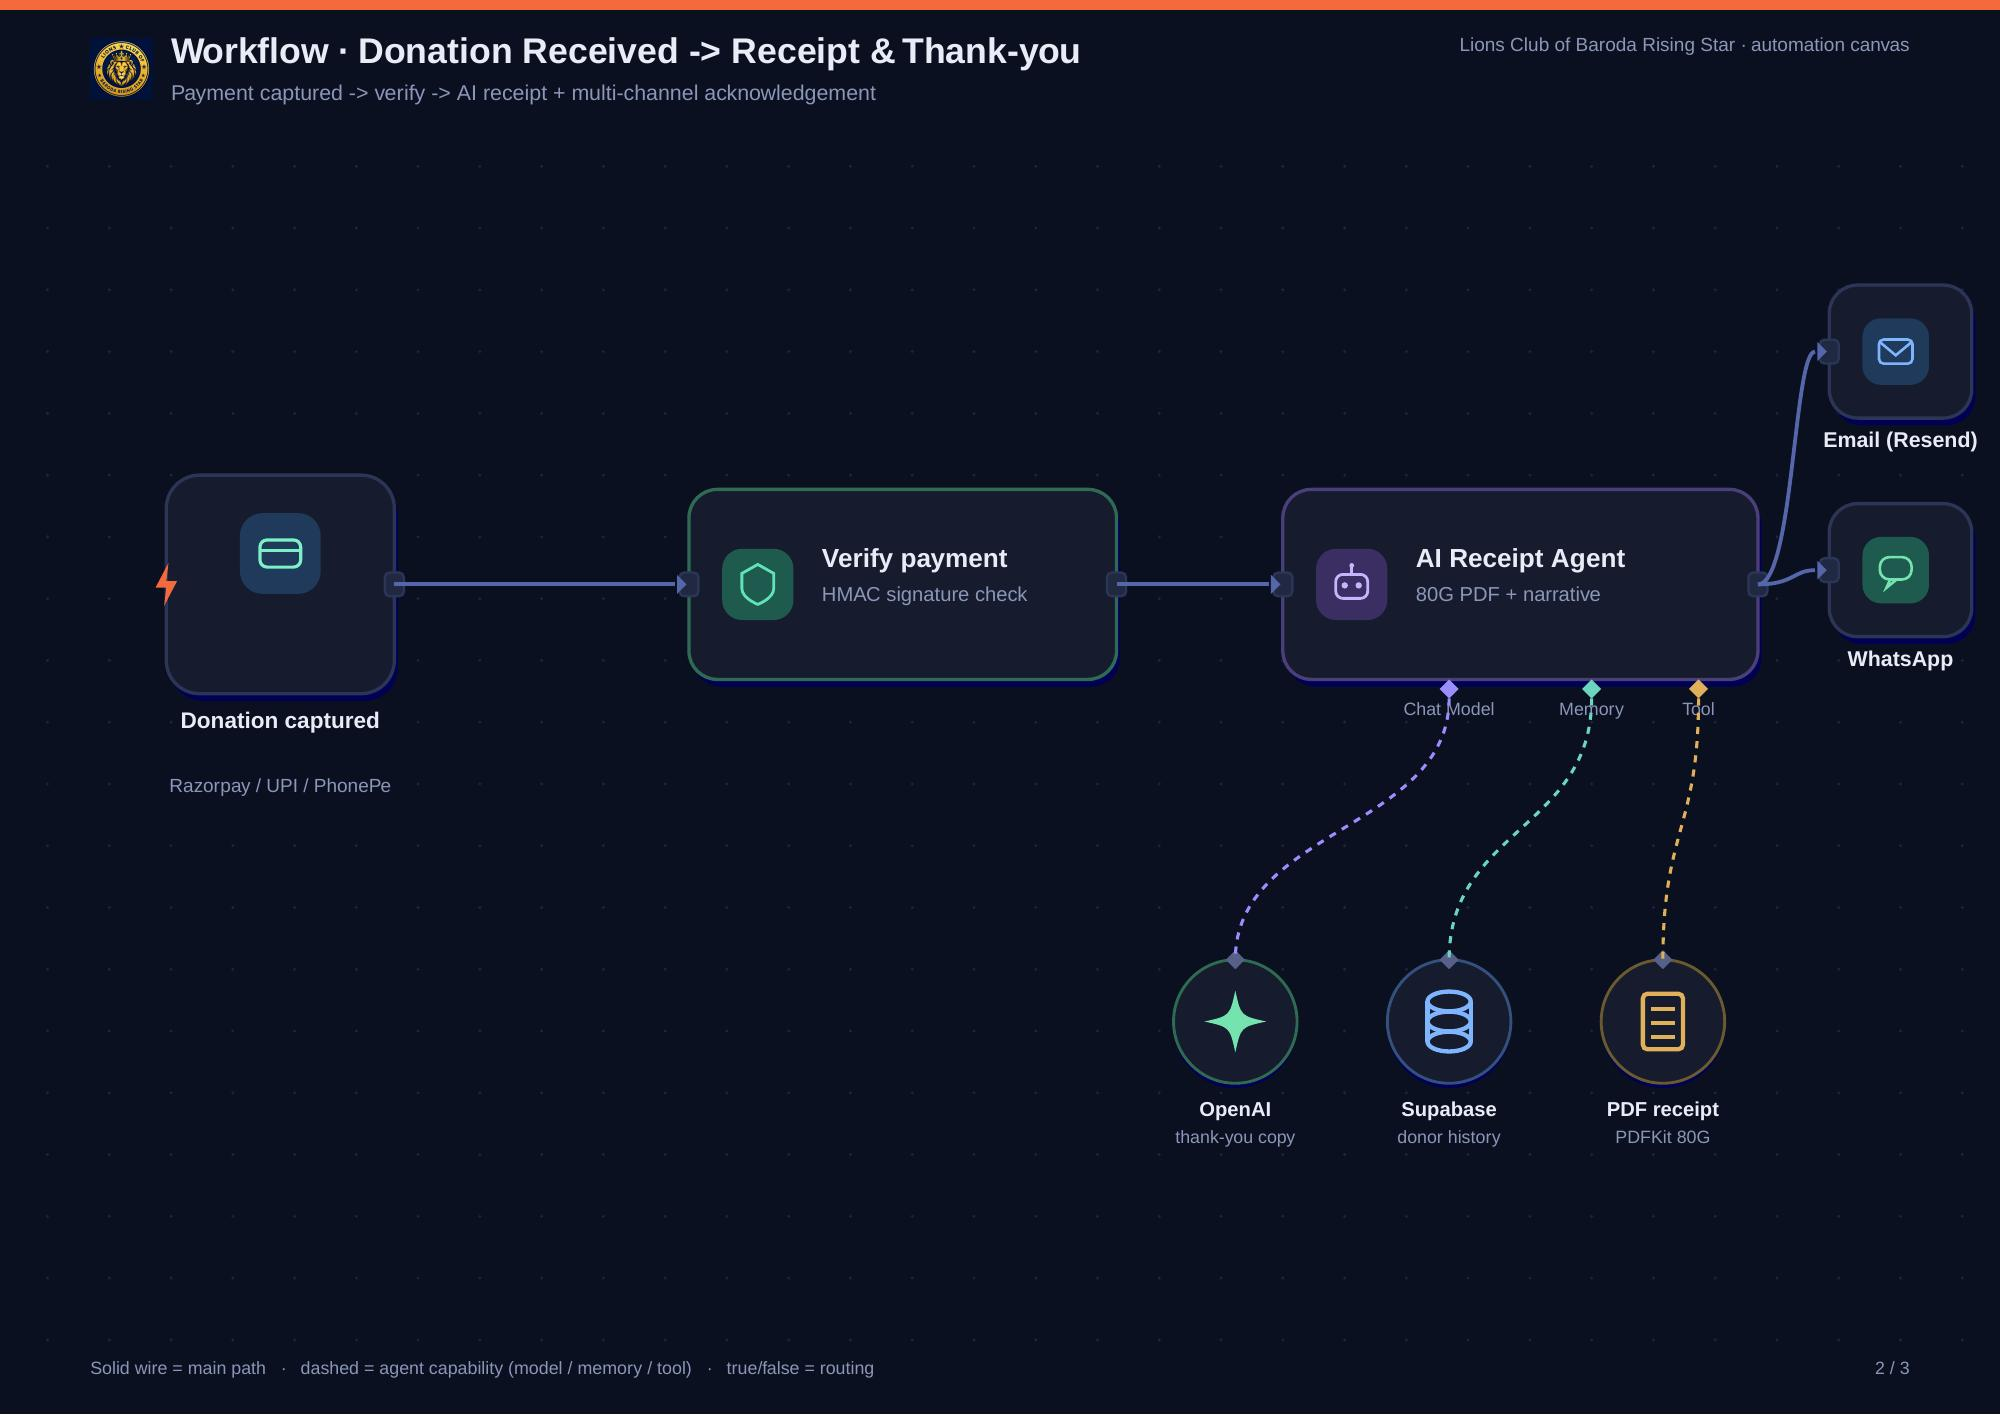
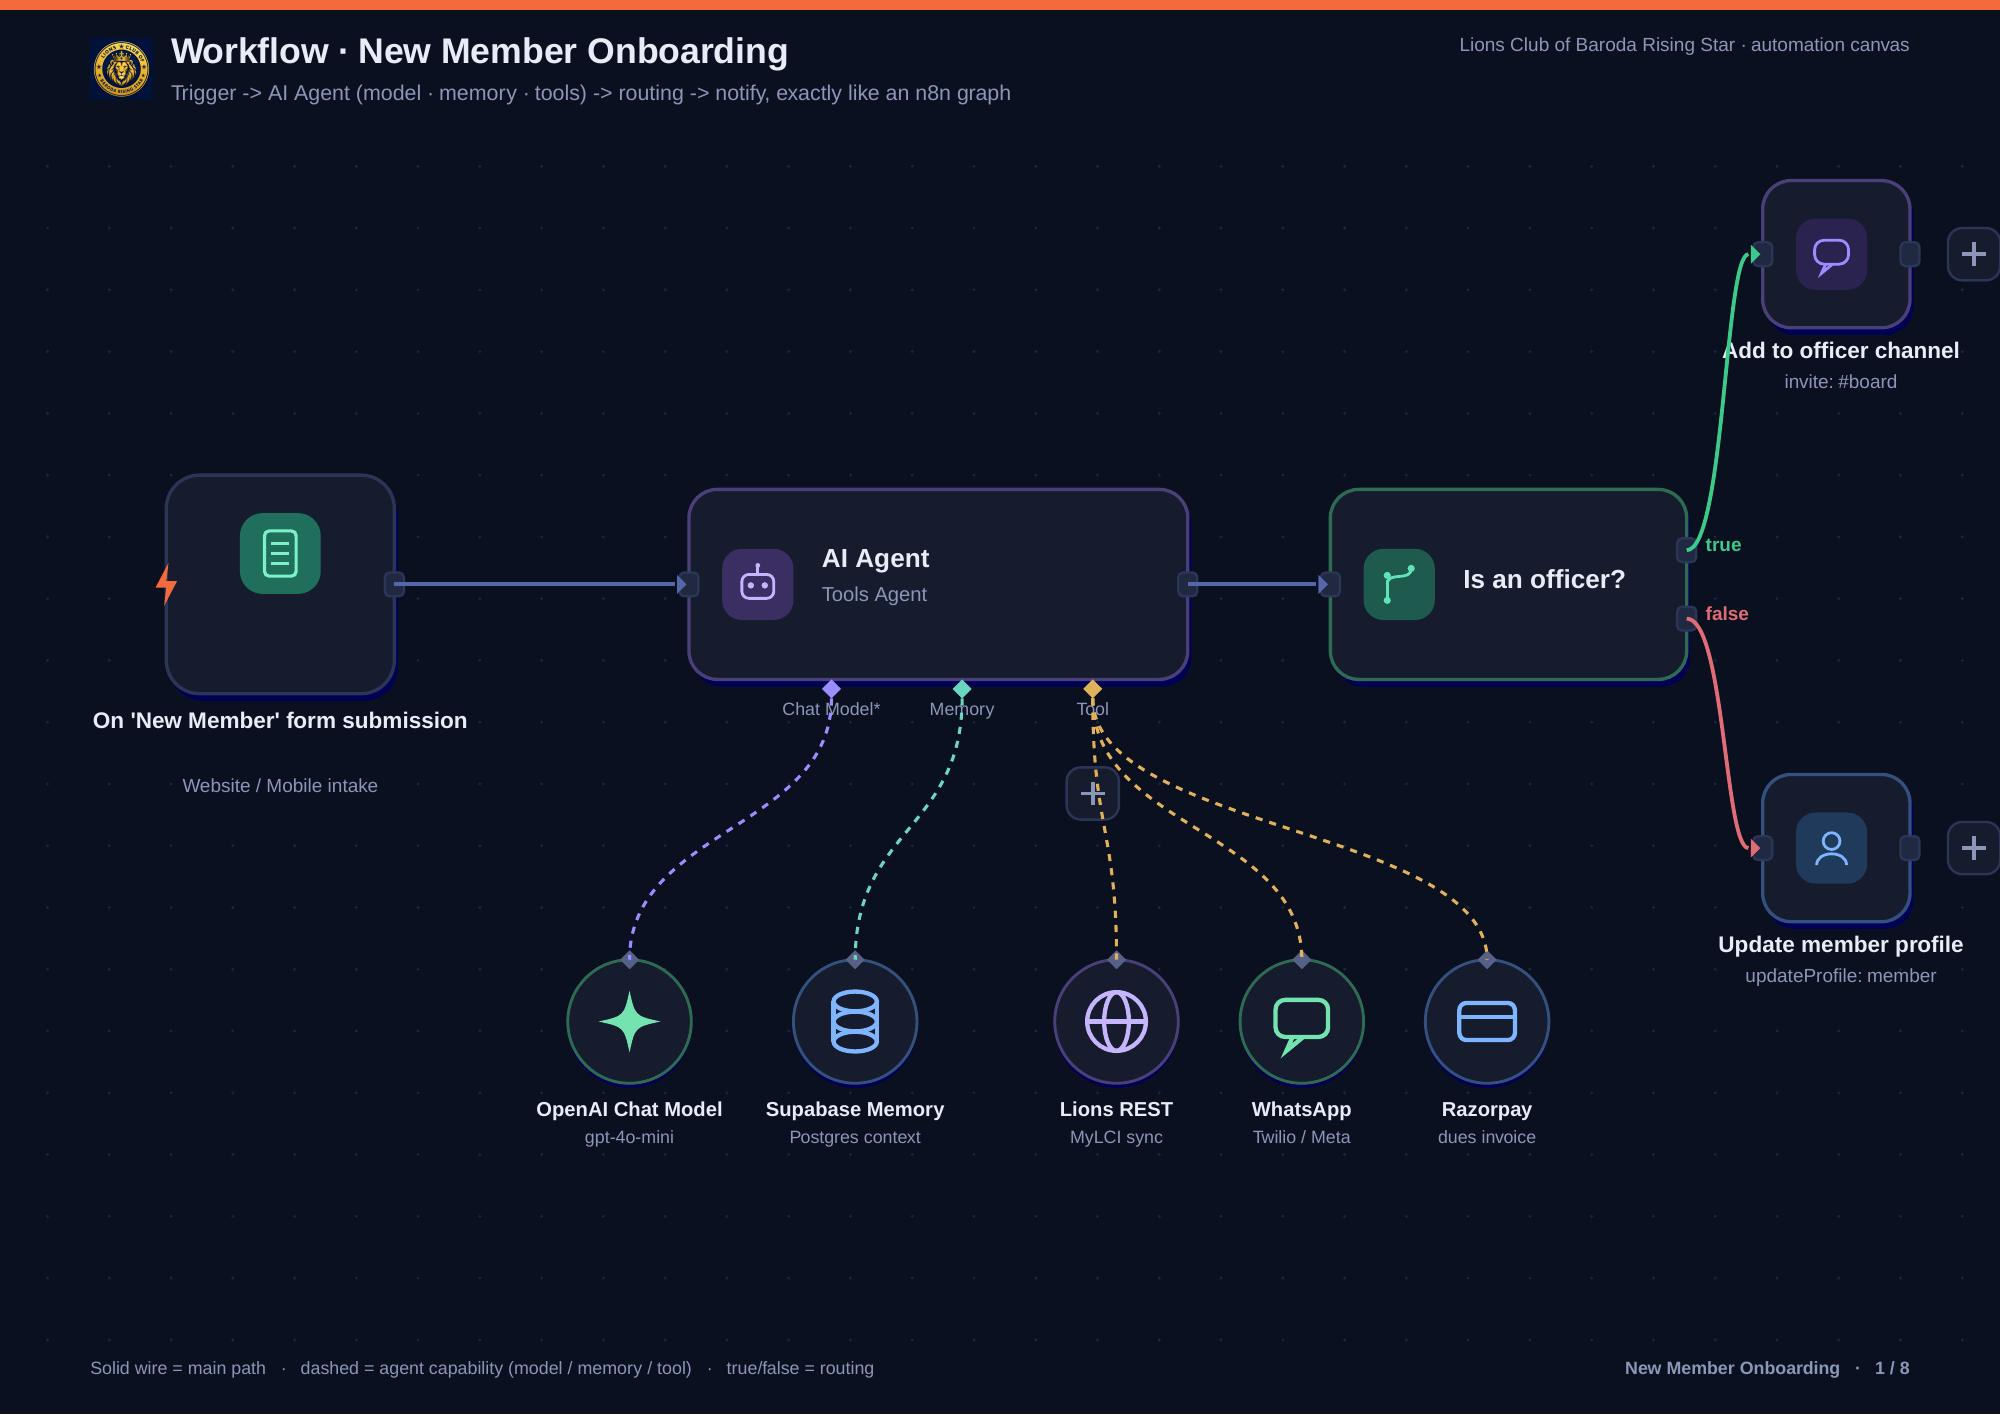
Upgrade workflow canvas to enterprise deck (9 pages)
- Add a branded cover/index page with a numbered workflow index and a
  full node-type + wire legend.
- Expand from 3 to 8 node-graph workflows: New Member Onboarding,
  Donation->Receipt, Daily Cron, Lions SSO (OIDC), Sync Engine,
  Event QR Check-in, Invoice & Payment, Social & Creative Publishing.
- Per-page footers labelled with the flow name + index.
- Regenerate PDF + 9 JPGs; /admin/workflow embeds the full deck.

diff --git a/scripts/build-workflow-canvas-pdf.js b/scripts/build-workflow-canvas-pdf.js
@@ -351,7 +351,7 @@ function drawGlyph(name, cx, cy, s, color) {
 // ===========================================================================
 function flowOnboarding() {
   canvas('Workflow · New Member Onboarding',
-    "Trigger -> AI Agent (model · memory · tools) -> routing -> notify, exactly like an n8n graph", true);
+    "Trigger -> AI Agent (model · memory · tools) -> routing -> notify, exactly like an n8n graph", false);
 
   const t = trigger(70, 200, 96, 92, { title: "On 'New Member' form submission", subtitle: 'Website / Mobile intake', icon: 'form' });
 
@@ -491,25 +491,302 @@ function flowCron() {
   wire(t.midR, engine.midL);
 }
 
-// ===========================================================================
-function legendStrip() {
-  // a slim legend at the bottom of each page is drawn here for page 1 only
+// small end/action node + caption, returned with input port
+function endNode(x, y, opts) {
+  const s = opts.size || 60;
+  node(x, y, s, s - 4, { title: '', icon: opts.icon, iconBg: opts.bg, iconColor: opts.color, inPort: true, outPort: opts.outPort === true, iconSize: 28, border: opts.border });
+  doc.fillColor(INK).font('Helvetica-Bold').fontSize(8.8).text(opts.label, x - 44, y + s + 2, { width: s + 88, align: 'center' });
+  if (opts.sub) doc.fillColor(SUBINK).font('Helvetica').fontSize(7.5).text(opts.sub, x - 44, y + s + 16, { width: s + 88, align: 'center' });
+  return { in: { x, y: y + (s - 4) / 2 } };
 }
 
-// build
+// ===========================================================================
+// COVER / INDEX
+// ===========================================================================
+const DECK = [
+  ['1', 'New Member Onboarding', 'Intake -> AI agent -> route -> notify'],
+  ['2', 'Donation -> Receipt & Thank-you', 'Capture -> verify -> AI receipt -> deliver'],
+  ['3', 'Daily Automation (Vercel Cron)', 'Schedule -> engine -> multi-channel dispatch'],
+  ['4', 'Lions SSO Sign-in (OIDC)', 'PKCE -> JWKS verify -> member upsert -> session'],
+  ['5', 'Sync Engine (CSV · REST · Webhook)', 'Trigger -> validate -> upsert -> audit'],
+  ['6', 'Event QR Check-in (Mobile)', 'Scan -> verify -> attendance -> confirm'],
+  ['7', 'Invoice & Payment Collection', 'Invoice -> pay -> reconcile / remind'],
+  ['8', 'Social & Creative Publishing', 'Activity -> AI creative -> approve -> publish'],
+];
+
+function cover() {
+  // first page already exists; paint it
+  doc.rect(0, 0, PAGE.w, PAGE.h).fill(BG);
+  doc.save();
+  doc.fillColor(GRID);
+  for (let x = 20; x < PAGE.w; x += 26) for (let y = 20; y < PAGE.h - 10; y += 26) doc.circle(x, y, 0.7).fill();
+  doc.restore();
+  doc.rect(0, 0, PAGE.w, 5).fill(ORANGE);
+
+  // glow accents
+  doc.save(); doc.opacity(0.10);
+  doc.circle(PAGE.w - 60, 90, 150).fill('#6c5cff');
+  doc.circle(70, PAGE.h - 60, 130).fill(GREEN);
+  doc.opacity(1).restore();
+
+  const lg = lion();
+  let hx = M;
+  if (lg) { try { doc.image(lg, M, 54, { width: 54, height: 54 }); hx = M + 66; } catch {} }
+  doc.fillColor(SUBINK).font('Helvetica-Bold').fontSize(10).text('LIONS CLUB OF BARODA RISING STAR', hx, 56, { lineBreak: false, characterSpacing: 1.2 });
+  doc.fillColor(SUBINK).font('Helvetica').fontSize(8.5).text('District 3232 F1 · Region 6 · Zone 1 · Vadodara, India', hx, 72, { lineBreak: false });
+
+  doc.fillColor(INK).font('Helvetica-Bold').fontSize(34).text('Automation Workflows', M, 120, { lineBreak: false });
+  doc.fillColor('#9aa6c8').font('Helvetica').fontSize(13)
+    .text('Enterprise node-graph blueprint — every trigger, AI agent, integration and route, wired end-to-end.', M, 162, { width: PAGE.w - M * 2 });
+
+  // index (left) — two columns of 4
+  const colW = (PAGE.w - M * 2 - 40) / 2;
+  const startY = 215, rowH = 70;
+  DECK.forEach((d, i) => {
+    const col = i < 4 ? 0 : 1;
+    const row = i % 4;
+    const x = M + col * (colW + 40);
+    const y = startY + row * rowH;
+    doc.roundedRect(x, y, colW, rowH - 14, 10).lineWidth(1).fillAndStroke(CARD, CARD_BORDER);
+    doc.roundedRect(x + 12, y + 13, 30, 30, 8).fill('#2a2350');
+    doc.fillColor('#c4b5fd').font('Helvetica-Bold').fontSize(15).text(d[0], x + 12, y + 20, { width: 30, align: 'center' });
+    doc.fillColor(INK).font('Helvetica-Bold').fontSize(12).text(d[1], x + 52, y + 14, { width: colW - 64, lineBreak: false });
+    doc.fillColor(SUBINK).font('Helvetica').fontSize(8.5).text(d[2], x + 52, y + 32, { width: colW - 64, lineBreak: false });
+  });
+
+  // legend strip
+  const ly = startY + 4 * rowH + 6;
+  doc.fillColor(SUBINK).font('Helvetica-Bold').fontSize(9).text('LEGEND', M, ly, { lineBreak: false, characterSpacing: 1 });
+  const items = [
+    ['bolt', ORANGE, '#3a2e2a', 'Trigger'],
+    ['robot', '#c4b5fd', '#3a2e63', 'AI agent / processor'],
+    ['spark', '#74e3b0', '#1f5a4f', 'Capability (model/tool)'],
+    ['branch', '#5fe3b8', '#1f5a4f', 'Decision (true/false)'],
+    ['globe', '#7fb4ff', '#1f3a5a', 'External service'],
+    ['mail', '#7fb4ff', '#1f3a5a', 'Action / channel'],
+  ];
+  let lx = M + 60;
+  items.forEach((it) => {
+    tile(lx, ly - 4, 18, it[2], it[0], it[1]);
+    doc.fillColor(INK).font('Helvetica').fontSize(8.5).text(it[3], lx + 24, ly, { lineBreak: false });
+    lx += 24 + doc.widthOfString(it[3]) + 26;
+  });
+  // wire legend
+  const wy = ly + 24;
+  doc.save();
+  doc.lineWidth(1.6).strokeColor(WIRE).moveTo(M + 60, wy).lineTo(M + 100, wy).stroke();
+  arrowHead(M + 100, wy, 'right', WIRE); doc.restore();
+  doc.fillColor(INK).font('Helvetica').fontSize(8.5).text('main path', M + 108, wy - 4, { lineBreak: false });
+  doc.save();
+  doc.lineWidth(1.3).strokeColor(WIRE_DASH).dash(3, { space: 3 }).moveTo(M + 190, wy).lineTo(M + 230, wy).stroke();
+  doc.undash(); doc.restore();
+  doc.fillColor(INK).font('Helvetica').fontSize(8.5).text('agent capability (model / memory / tool)', M + 238, wy - 4, { lineBreak: false });
+
+  const today = new Date().toISOString().slice(0, 10);
+  doc.fillColor(SUBINK).text(`Generated ${today}  ·  8 workflows  ·  Next.js 16 · Supabase · Vercel  ·  Lions Year 2025-2026`, M, PAGE.h - 36, { width: PAGE.w - M * 2, align: 'center', lineBreak: false });
+}
+
+// ===========================================================================
+// WORKFLOW 4 — Lions SSO sign-in (OIDC)
+// ===========================================================================
+function flowLogin() {
+  canvas('Workflow · Lions SSO Sign-in (OIDC)',
+    'PKCE + state + nonce -> token exchange -> JWKS verify -> member upsert -> session', false);
+
+  const t = trigger(50, 206, 90, 90, { title: "Click 'Sign in with Lions'", subtitle: '/login', icon: 'user', iconBg: '#3a2e63' });
+  const login = node(175, 212, 150, 78, { title: '/oidc/login', subtitle: 'PKCE · state · nonce', icon: 'shield', iconBg: '#1f5a4f', iconColor: '#5fe3b8', border: '#2f6b53' });
+  const idp = node(355, 212, 135, 78, { title: 'Lions IdP', subtitle: 'authorize (external)', icon: 'globe', iconBg: '#1f3a5a', iconColor: '#7fb4ff', border: '#34507f' });
+  const cb = decision(520, 212, 180, 78, { title: 'New member?', subtitle: '/oidc/callback', icon: 'branch', iconBg: '#3a2e63', iconColor: '#c4b5fd', border: '#4b3f7a' });
+
+  const py = cb.y + cb.h + 4;
+  const pVerify = cb.x + 55, pData = cb.x + 110, pAudit = cb.x + 155;
+  portLabel(pVerify, py, 'Verify', '#9b8cff');
+  portLabel(pData, py, 'Userinfo', '#6bd6c0');
+  portLabel(pAudit, py, 'Audit', '#e0b15a');
+  const subY = 440, R = 26;
+  const sJwks = subNode(470, subY, R, { title: 'JWKS verify', subtitle: 'iss · aud · nonce', icon: 'shield', iconColor: '#74e3b0', border: '#2f6b53' });
+  const sUser = subNode(560, subY, R, { title: 'userinfo', subtitle: 'claims', icon: 'globe', iconColor: '#7fb4ff', border: '#34507f' });
+  const sUpsert = subNode(650, subY, R, { title: 'oauth_accounts', subtitle: 'Supabase upsert', icon: 'db', iconColor: '#c4b5fd', border: '#4b3f7a' });
+  dashWire({ x: pVerify, y: py + 4 }, sJwks.top, '#9b8cff');
+  dashWire({ x: pData, y: py + 4 }, sUser.top, '#6bd6c0');
+  dashWire({ x: pAudit, y: py + 4 }, sUpsert.top, '#e0b15a');
+
+  endNode(742, 110, { icon: 'user', bg: '#1f5a4f', color: '#74e3b0', label: 'Provision + welcome', sub: 'role mapping', border: '#2f6b53' });
+  endNode(742, 300, { icon: 'shield', bg: '#1f3a5a', color: '#7fb4ff', label: 'Update claims + session', sub: 'redirect /admin', border: '#34507f' });
+
+  wire(t.midR, login.midL);
+  wire(login.midR, idp.midL);
+  wire(idp.midR, cb.midL);
+  branchWire(cb.truePort, { x: 742, y: 138 }, TRUE_C);
+  branchWire(cb.falsePort, { x: 742, y: 328 }, FALSE_C);
+}
+
+// ===========================================================================
+// WORKFLOW 5 — Sync engine
+// ===========================================================================
+function flowSync() {
+  canvas('Workflow · Sync Engine (CSV · REST · Webhook)',
+    'Officer / cron / webhook -> runSyncJob -> Zod validate -> upsert -> audit + queue', false);
+
+  const t = trigger(50, 206, 90, 90, { title: 'Sync trigger', subtitle: 'CSV · REST · webhook', icon: 'refresh', iconBg: '#3a2e63' });
+  const run = node(180, 212, 185, 78, { title: 'runSyncJob', subtitle: 'opens sync_logs', icon: 'robot', iconBg: '#3a2e63', iconColor: '#c4b5fd', border: '#4b3f7a' });
+  const dec = decision(420, 212, 175, 78, { title: 'All rows valid?', subtitle: 'Zod per row', icon: 'branch', iconBg: '#1f5a4f', iconColor: '#5fe3b8', border: '#2f6b53' });
+
+  const py = run.y + run.h + 4;
+  const pVal = run.x + 55, pSrc = run.x + 105, pStore = run.x + 150;
+  portLabel(pVal, py, 'Validate', '#9b8cff');
+  portLabel(pSrc, py, 'Source', '#6bd6c0');
+  portLabel(pStore, py, 'Store', '#e0b15a');
+  const subY = 440, R = 26;
+  const sZod = subNode(255, subY, R, { title: 'Zod schema', subtitle: 'per-row', icon: 'shield', iconColor: '#74e3b0', border: '#2f6b53' });
+  const sRest = subNode(360, subY, R, { title: 'Lions REST', subtitle: 'paginated', icon: 'globe', iconColor: '#7fb4ff', border: '#34507f' });
+  const sUp = subNode(465, subY, R, { title: 'Supabase', subtitle: 'upsert', icon: 'db', iconColor: '#c4b5fd', border: '#4b3f7a' });
+  dashWire({ x: pVal, y: py + 4 }, sZod.top, '#9b8cff');
+  dashWire({ x: pSrc, y: py + 4 }, sRest.top, '#6bd6c0');
+  dashWire({ x: pStore, y: py + 4 }, sUp.top, '#e0b15a');
+
+  endNode(742, 110, { icon: 'doc', bg: '#1f5a4f', color: '#74e3b0', label: 'Success + audit', sub: 'records upserted', border: '#2f6b53' });
+  endNode(742, 300, { icon: 'refresh', bg: '#5a3a1f', color: '#e0b15a', label: 'Partial + failures[]', sub: 'queued for revive', border: '#6b5a2f' });
+
+  wire(t.midR, run.midL);
+  wire(run.midR, dec.midL);
+  branchWire(dec.truePort, { x: 742, y: 138 }, TRUE_C);
+  branchWire(dec.falsePort, { x: 742, y: 328 }, FALSE_C);
+}
+
+// ===========================================================================
+// WORKFLOW 6 — Event QR check-in
+// ===========================================================================
+function flowCheckin() {
+  canvas('Workflow · Event QR Check-in (Mobile)',
+    'Scan QR -> verify token -> record attendance -> confirm / reject', false);
+
+  const t = trigger(50, 206, 90, 90, { title: 'Scan QR', subtitle: '/m/checkin', icon: 'qr', iconBg: '#1f3a5a' });
+  const verify = node(180, 212, 190, 78, { title: 'Check-in verify', subtitle: '/events/:id/checkin', icon: 'shield', iconBg: '#1f5a4f', iconColor: '#5fe3b8', border: '#2f6b53' });
+  const dec = decision(425, 212, 185, 78, { title: 'Valid & not duplicate?', subtitle: 'token + attendance', icon: 'branch', iconBg: '#3a2e63', iconColor: '#c4b5fd', border: '#4b3f7a' });
+
+  const py = verify.y + verify.h + 4;
+  const pTok = verify.x + 60, pStore = verify.x + 130;
+  portLabel(pTok, py, 'QR token', '#9b8cff');
+  portLabel(pStore, py, 'Attendance', '#6bd6c0');
+  const subY = 440, R = 26;
+  const sTok = subNode(265, subY, R, { title: 'Signed token', subtitle: 'event + member', icon: 'qr', iconColor: '#74e3b0', border: '#2f6b53' });
+  const sAtt = subNode(380, subY, R, { title: 'Supabase', subtitle: 'attendance', icon: 'db', iconColor: '#7fb4ff', border: '#34507f' });
+  dashWire({ x: pTok, y: py + 4 }, sTok.top, '#9b8cff');
+  dashWire({ x: pStore, y: py + 4 }, sAtt.top, '#6bd6c0');
+
+  endNode(742, 110, { icon: 'bell', bg: '#1f5a4f', color: '#74e3b0', label: 'Mark present + push', sub: 'confirmation', border: '#2f6b53' });
+  endNode(742, 300, { icon: 'shield', bg: '#5a1f2a', color: '#e06c75', label: 'Reject', sub: 'used / invalid', border: '#7a2f3a' });
+
+  wire(t.midR, verify.midL);
+  wire(verify.midR, dec.midL);
+  branchWire(dec.truePort, { x: 742, y: 138 }, TRUE_C);
+  branchWire(dec.falsePort, { x: 742, y: 328 }, FALSE_C);
+}
+
+// ===========================================================================
+// WORKFLOW 7 — Invoice & payment collection
+// ===========================================================================
+function flowInvoice() {
+  canvas('Workflow · Invoice & Payment Collection',
+    'Create invoice -> generate & send -> /pay (UPI · Razorpay · PhonePe) -> reconcile / remind', false);
+
+  const t = trigger(50, 206, 90, 90, { title: 'Create invoice', subtitle: 'admin / recurring', icon: 'doc', iconBg: '#5a4a1f' });
+  const prep = node(175, 212, 185, 78, { title: 'Generate & send', subtitle: 'PDF · Email · WhatsApp', icon: 'mail', iconBg: '#1f3a5a', iconColor: '#7fb4ff', border: '#34507f' });
+  const pay = node(395, 212, 140, 78, { title: 'Payment', subtitle: '/pay/:id', icon: 'card', iconBg: '#1f5a4f', iconColor: '#5fe3b8', border: '#2f6b53' });
+  const dec = decision(560, 212, 150, 78, { title: 'Paid?', subtitle: 'webhook / verify', icon: 'branch', iconBg: '#3a2e63', iconColor: '#c4b5fd', border: '#4b3f7a' });
+
+  const py = pay.y + pay.h + 4;
+  const pG1 = pay.x + 45, pG2 = pay.x + 95;
+  portLabel(pG1, py, 'Gateway', '#e0b15a');
+  portLabel(pG2, py, 'QR / UPI', '#6bd6c0');
+  const subY = 440, R = 26;
+  const sRzp = subNode(390, subY, R, { title: 'Razorpay', subtitle: 'cards / netbank', icon: 'card', iconColor: '#7fb4ff', border: '#34507f' });
+  const sUpi = subNode(490, subY, R, { title: 'UPI QR', subtitle: 'GPay / PhonePe', icon: 'qr', iconColor: '#74e3b0', border: '#2f6b53' });
+  const sPp = subNode(590, subY, R, { title: 'PhonePe', subtitle: 'standard checkout', icon: 'card', iconColor: '#c4b5fd', border: '#4b3f7a' });
+  dashWire({ x: pG1, y: py + 4 }, sRzp.top, '#e0b15a');
+  dashWire({ x: pG2, y: py + 4 }, sUpi.top, '#6bd6c0');
+  dashWire({ x: pG1, y: py + 4 }, sPp.top, '#e0b15a');
+
+  endNode(742, 110, { icon: 'doc', bg: '#1f5a4f', color: '#74e3b0', label: 'Receipt + reconcile', sub: 'audit log', border: '#2f6b53' });
+  endNode(742, 300, { icon: 'bell', bg: '#5a4a1f', color: '#e0b15a', label: 'Reminder', sub: 'recurring cycle', border: '#6b5a2f' });
+
+  wire(t.midR, prep.midL);
+  wire(prep.midR, pay.midL);
+  wire(pay.midR, dec.midL);
+  branchWire(dec.truePort, { x: 742, y: 138 }, TRUE_C);
+  branchWire(dec.falsePort, { x: 742, y: 328 }, FALSE_C);
+}
+
+// ===========================================================================
+// WORKFLOW 8 — Social & creative publishing
+// ===========================================================================
+function flowSocial() {
+  canvas('Workflow · Social & Creative Publishing',
+    'Activity logged -> AI creative agent (copy + poster) -> approve -> publish to channels', false);
+
+  const t = trigger(50, 206, 90, 90, { title: 'Activity logged', subtitle: 'mobile / admin', icon: 'spark', iconBg: '#3a2e63' });
+  const agent = node(180, 212, 205, 78, { title: 'AI Creative Agent', subtitle: 'caption + poster', icon: 'robot', iconBg: '#3a2e63', iconColor: '#c4b5fd', border: '#4b3f7a' });
+  const approve = node(440, 212, 150, 78, { title: 'Approve', subtitle: 'admin review', icon: 'shield', iconBg: '#1f5a4f', iconColor: '#5fe3b8', border: '#2f6b53' });
+
+  const py = agent.y + agent.h + 4;
+  const pModel = agent.x + 65, pMedia = agent.x + 130, pTool = agent.x + 175;
+  portLabel(pModel, py, 'Copy', '#9b8cff');
+  portLabel(pMedia, py, 'Poster', '#6bd6c0');
+  portLabel(pTool, py, 'Media', '#e0b15a');
+  const subY = 440, R = 26;
+  const sAI = subNode(270, subY, R, { title: 'OpenAI', subtitle: 'EN + GU copy', icon: 'spark', iconColor: '#74e3b0', border: '#2f6b53' });
+  const sCanva = subNode(370, subY, R, { title: 'Canva', subtitle: 'branded poster', icon: 'spark', iconColor: '#c4b5fd', border: '#4b3f7a' });
+  const sCloud = subNode(470, subY, R, { title: 'Cloudinary', subtitle: 'media CDN', icon: 'globe', iconColor: '#7fb4ff', border: '#34507f' });
+  dashWire({ x: pModel, y: py + 4 }, sAI.top, '#9b8cff');
+  dashWire({ x: pMedia, y: py + 4 }, sCanva.top, '#6bd6c0');
+  dashWire({ x: pTool, y: py + 4 }, sCloud.top, '#e0b15a');
+
+  const chans = [
+    { y: 96, bg: '#1f3a5a', c: '#7fb4ff', label: 'Facebook Page' },
+    { y: 206, bg: '#3a2e63', c: '#c4b5fd', label: 'Instagram' },
+    { y: 316, bg: '#1f5a4f', c: '#74e3b0', label: 'LinkedIn' },
+  ];
+  chans.forEach((c) => {
+    endNode(742, c.y, { icon: 'globe', bg: c.bg, color: c.c, label: c.label, border: CARD_BORDER });
+    branchWire(approve.midR, { x: 742, y: c.y + 28 }, WIRE);
+  });
+
+  wire(t.midR, agent.midL);
+  wire(agent.midR, approve.midL);
+}
+
+// ===========================================================================
+// build deck
+// ===========================================================================
+const PAGE_TITLES = [
+  'Cover · Index',
+  'New Member Onboarding', 'Donation -> Receipt', 'Daily Automation (Cron)',
+  'Lions SSO Sign-in (OIDC)', 'Sync Engine', 'Event QR Check-in',
+  'Invoice & Payment', 'Social & Creative',
+];
+
+cover();
 flowOnboarding();
 flowDonation();
 flowCron();
+flowLogin();
+flowSync();
+flowCheckin();
+flowInvoice();
+flowSocial();
 
-// page footers
+// page footers (skip cover)
 const range = doc.bufferedPageRange();
 for (let i = 0; i < range.count; i++) {
   doc.switchToPage(range.start + i);
+  if (i === 0) continue;
   doc.fillColor(SUBINK).font('Helvetica').fontSize(7.5)
     .text('Solid wire = main path   ·   dashed = agent capability (model / memory / tool)   ·   true/false = routing',
-      M, PAGE.h - 22, { width: PAGE.w - M * 2 - 80, align: 'left', lineBreak: false });
-  doc.text(`${i + 1} / ${range.count}`, M, PAGE.h - 22, { width: PAGE.w - M * 2, align: 'right', lineBreak: false });
+      M, PAGE.h - 22, { width: PAGE.w - M * 2 - 120, align: 'left', lineBreak: false });
+  doc.fillColor(SUBINK).font('Helvetica-Bold').fontSize(7.5)
+    .text(`${PAGE_TITLES[i] || ''}   ·   ${i} / ${range.count - 1}`, M, PAGE.h - 22, { width: PAGE.w - M * 2, align: 'right', lineBreak: false });
 }
 
 doc.end();
-console.log('Wrote', outPath);
+console.log('Wrote', outPath, '·', range.count, 'pages');

diff --git a/src/app/admin/workflow/page.tsx b/src/app/admin/workflow/page.tsx
@@ -22,9 +22,15 @@ export const dynamic = 'force-dynamic';
 const PDF_HREF = '/lcbrs-workflow-blueprint.pdf';
 const CANVAS_PDF_HREF = '/lcbrs-workflow-canvas.pdf';
 const CANVAS_IMAGES = [
-  { src: '/lcbrs-workflow-canvas-1.jpg', label: 'New Member Onboarding' },
-  { src: '/lcbrs-workflow-canvas-2.jpg', label: 'Donation → Receipt & Thank-you' },
-  { src: '/lcbrs-workflow-canvas-3.jpg', label: 'Daily Automation (Vercel Cron)' },
+  { src: '/lcbrs-workflow-canvas-1.jpg', label: 'Index · all workflows' },
+  { src: '/lcbrs-workflow-canvas-2.jpg', label: 'New Member Onboarding' },
+  { src: '/lcbrs-workflow-canvas-3.jpg', label: 'Donation → Receipt & Thank-you' },
+  { src: '/lcbrs-workflow-canvas-4.jpg', label: 'Daily Automation (Vercel Cron)' },
+  { src: '/lcbrs-workflow-canvas-5.jpg', label: 'Lions SSO Sign-in (OIDC)' },
+  { src: '/lcbrs-workflow-canvas-6.jpg', label: 'Sync Engine (CSV · REST · Webhook)' },
+  { src: '/lcbrs-workflow-canvas-7.jpg', label: 'Event QR Check-in (Mobile)' },
+  { src: '/lcbrs-workflow-canvas-8.jpg', label: 'Invoice & Payment Collection' },
+  { src: '/lcbrs-workflow-canvas-9.jpg', label: 'Social & Creative Publishing' },
 ];
 
 const CATEGORY_META: Record<IntegrationCategory, { label: string; icon: React.ComponentType<{ size?: number }>; dot: string; chip: string }> = {